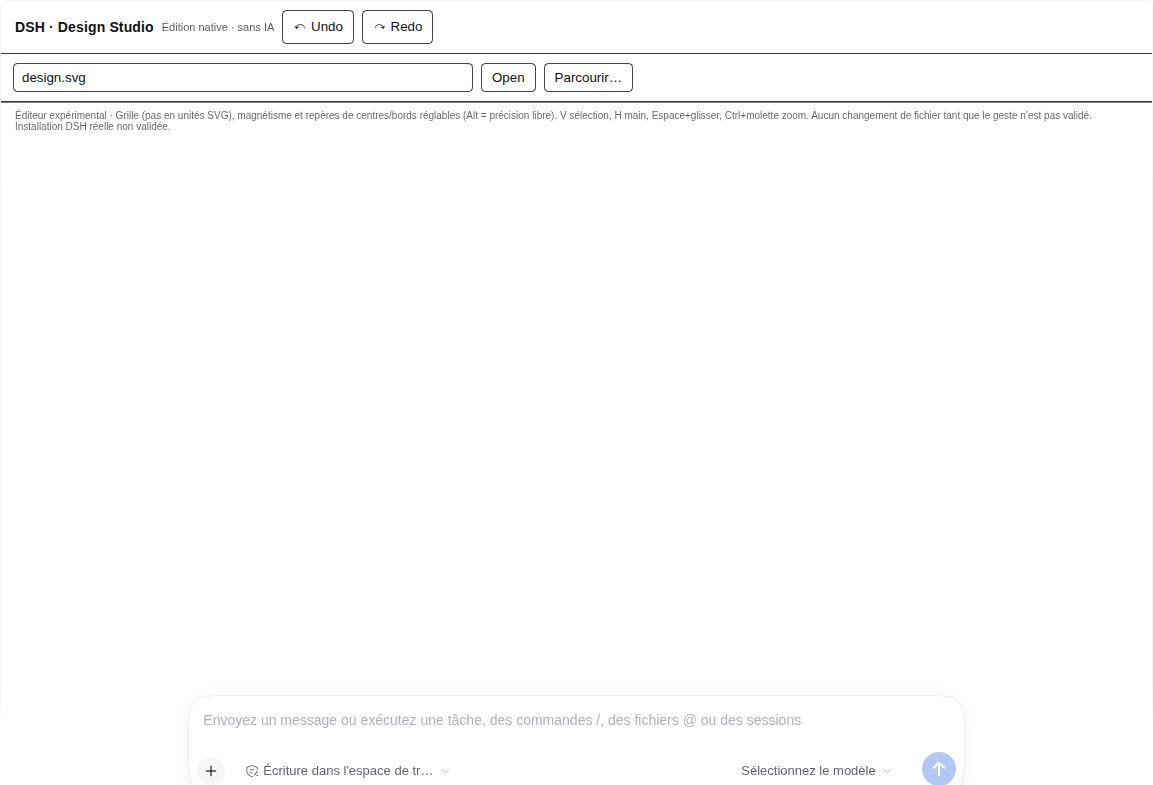
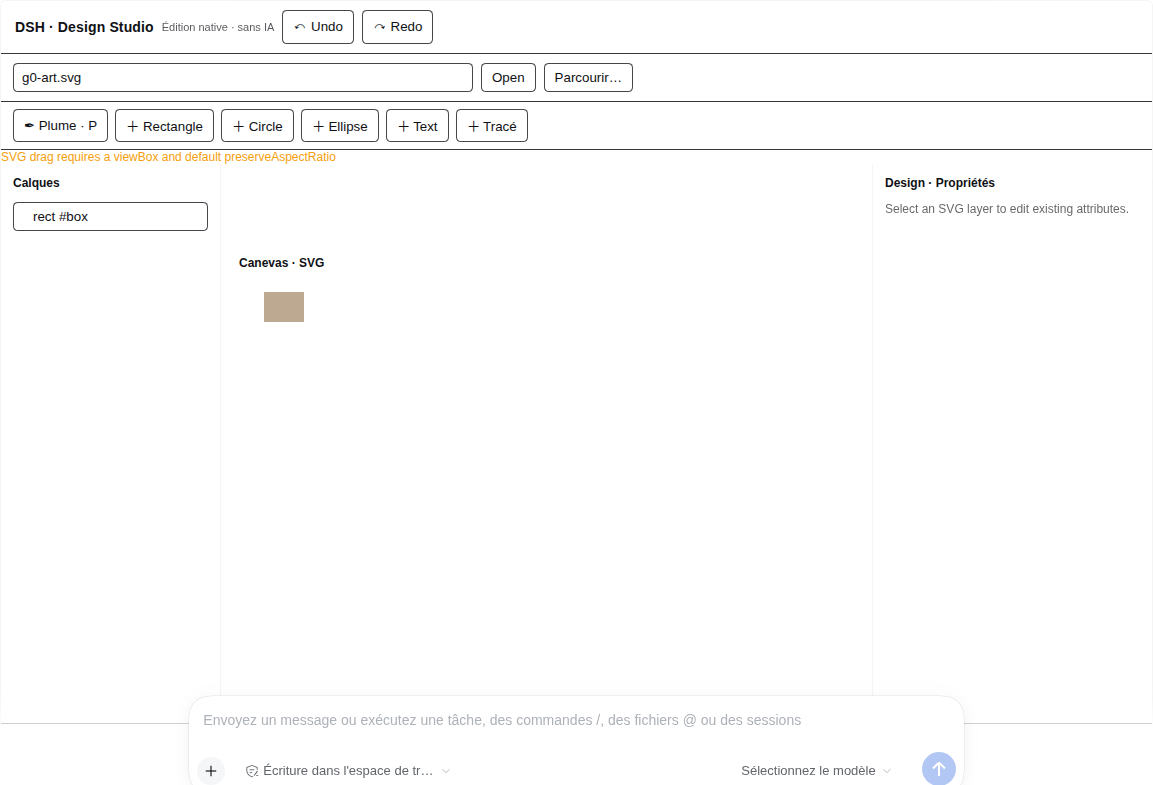
fix(svg): mount a canvas for documents sized without a viewBox
A root declaring only width/height — the shape most exported SVGs have —
got `artboard: null`, so the workbench rendered its layers and NO canvas.
That is indistinguishable from an unimplemented editor, and it is what the
owner saw after opening a file.

The geometry now derives the user-unit coordinate system from an absolute
root size (`120` or `120px`) and keeps refusing only when nothing usable
exists: a percentage depends on a viewport this editor does not have.

Regression test covers the canvas, the draggable rect, the px suffix and
the percentage refusal. Core suite: 410 pass / 0 fail.

No UI process was launched for this change: DSH reloads the bundle hot.

Changed region(s): [[0.0, 0.0917, 0.9367, 0.3057], [0.7493, 0.214, 0.9679, 0.2752], [0.2186, 0.3057, 0.281, 0.428]]

diff --git a/docs/operations/SESSION-2026-11-17-POST-MERGE.md b/docs/operations/SESSION-2026-11-17-POST-MERGE.md
@@ -51,6 +51,8 @@ The owner opened the real `Design Studio` view and saw *"l'onglet est vide je ne
 
 Fixed (first half): a real landing region that lists the workspace's design files, loaded on mount, filterable, with a refresh control for files that appear while the view is open, and an honest "no design file in this workspace" state. The stale footer claim ("installation DSH réelle non validée") is gone. Proven by two new browser specs — `landing.mjs` opens a nested file straight from the list and asserts the canvas mounts; the empty spec asserts zero rows *and* a zero count, so an empty list can no longer masquerade as success. Remaining: creating a file still has no Host path (next slice, with the same transactional guarantees).
 
+Second, deeper cause found while proving the editor in the real product: `resolveArtboard` refused any root without a `viewBox`, so a document declaring only `width`/`height` — how most exported SVGs look — rendered its **layers but no canvas at all**. The geometry now derives the coordinate system from an absolute root size (`120` or `120px`; a percentage genuinely cannot define one) and keeps refusing only when neither is available. Regression test added: the canvas mounts and the rect stays draggable for a sized root, the percentage case stays refused.
+
 ### Internal-plugin integration (framing + theme)
 
 The product is an internal DSH bundle, not an external application (ADR-023). Two integration defects were found:
